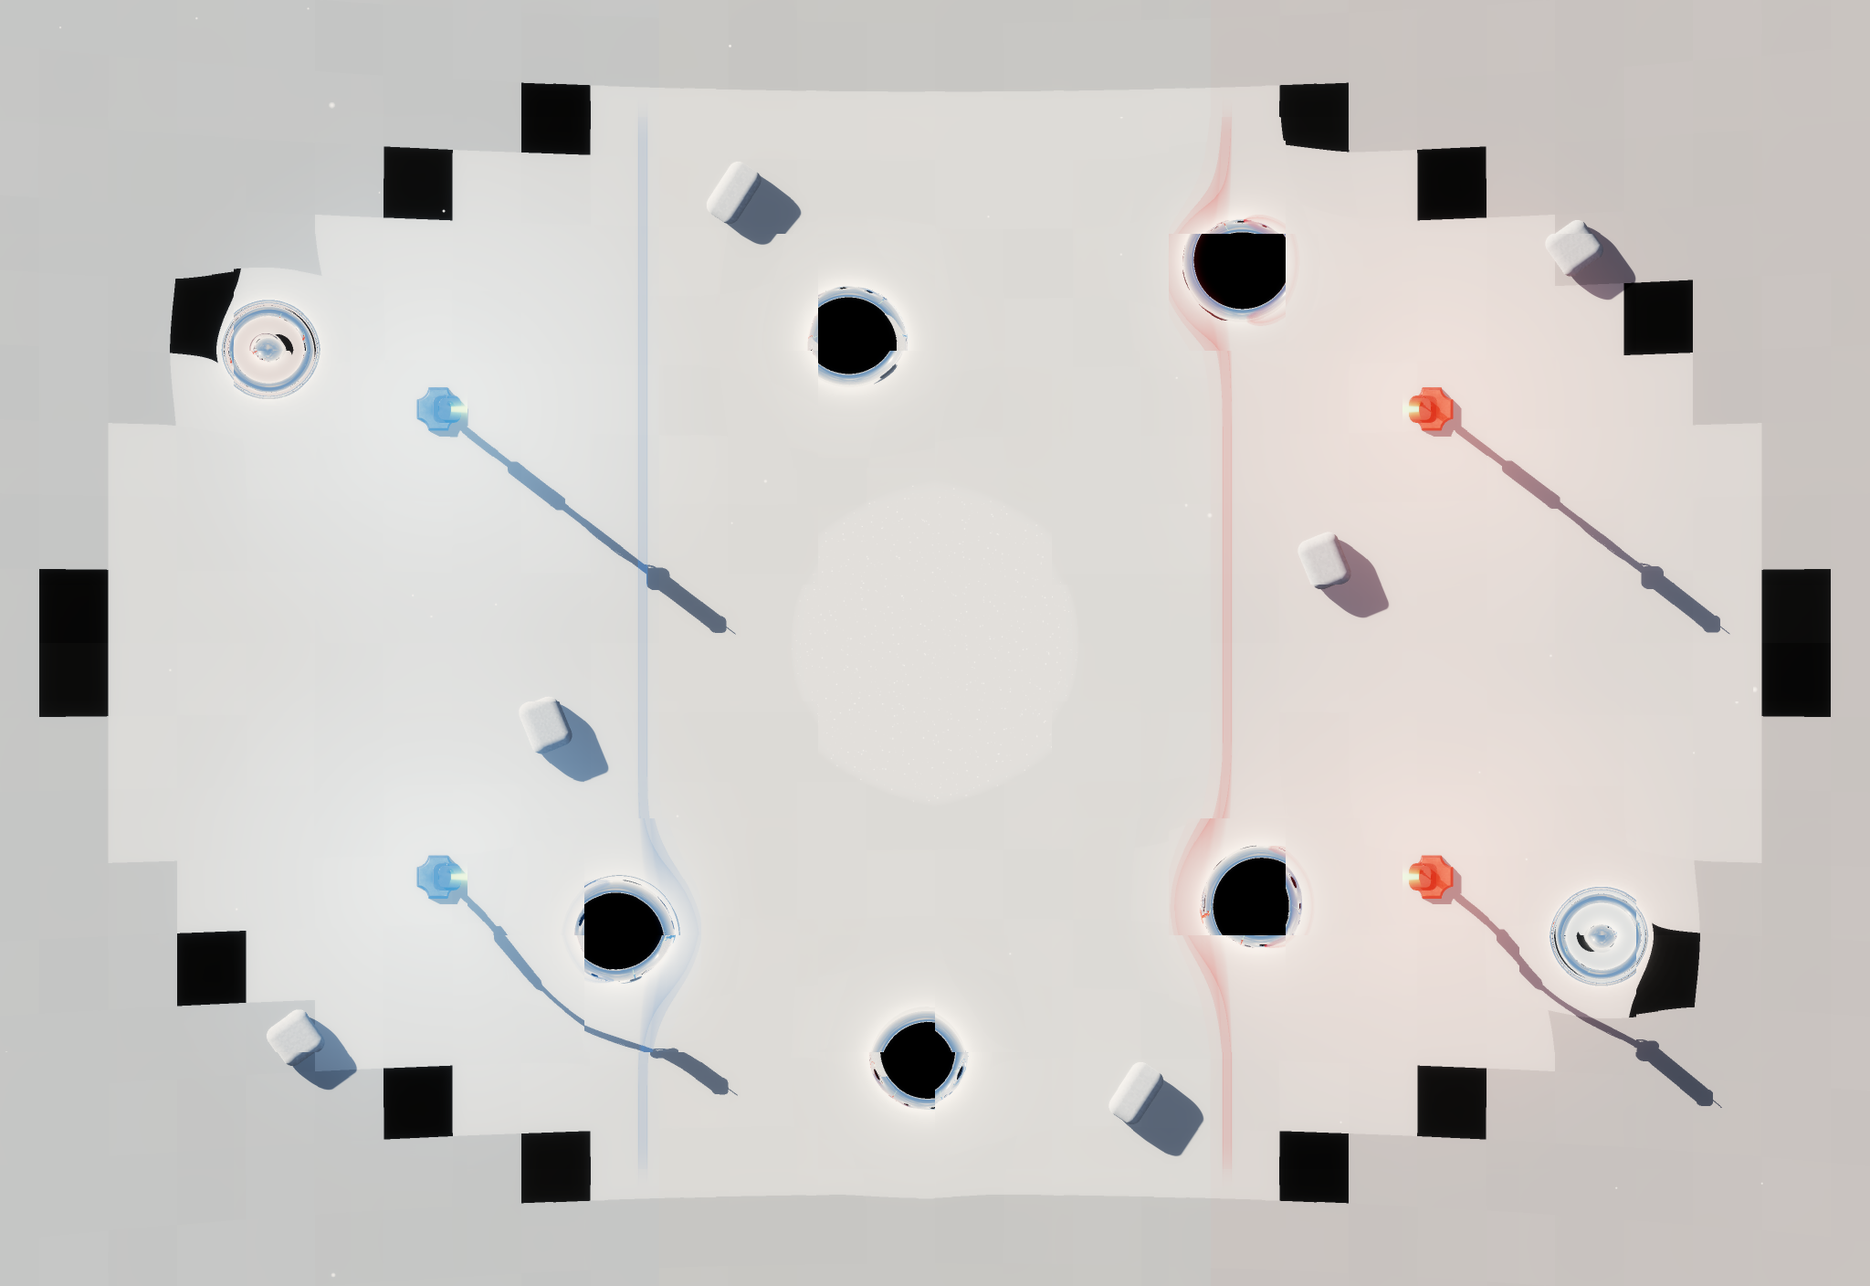
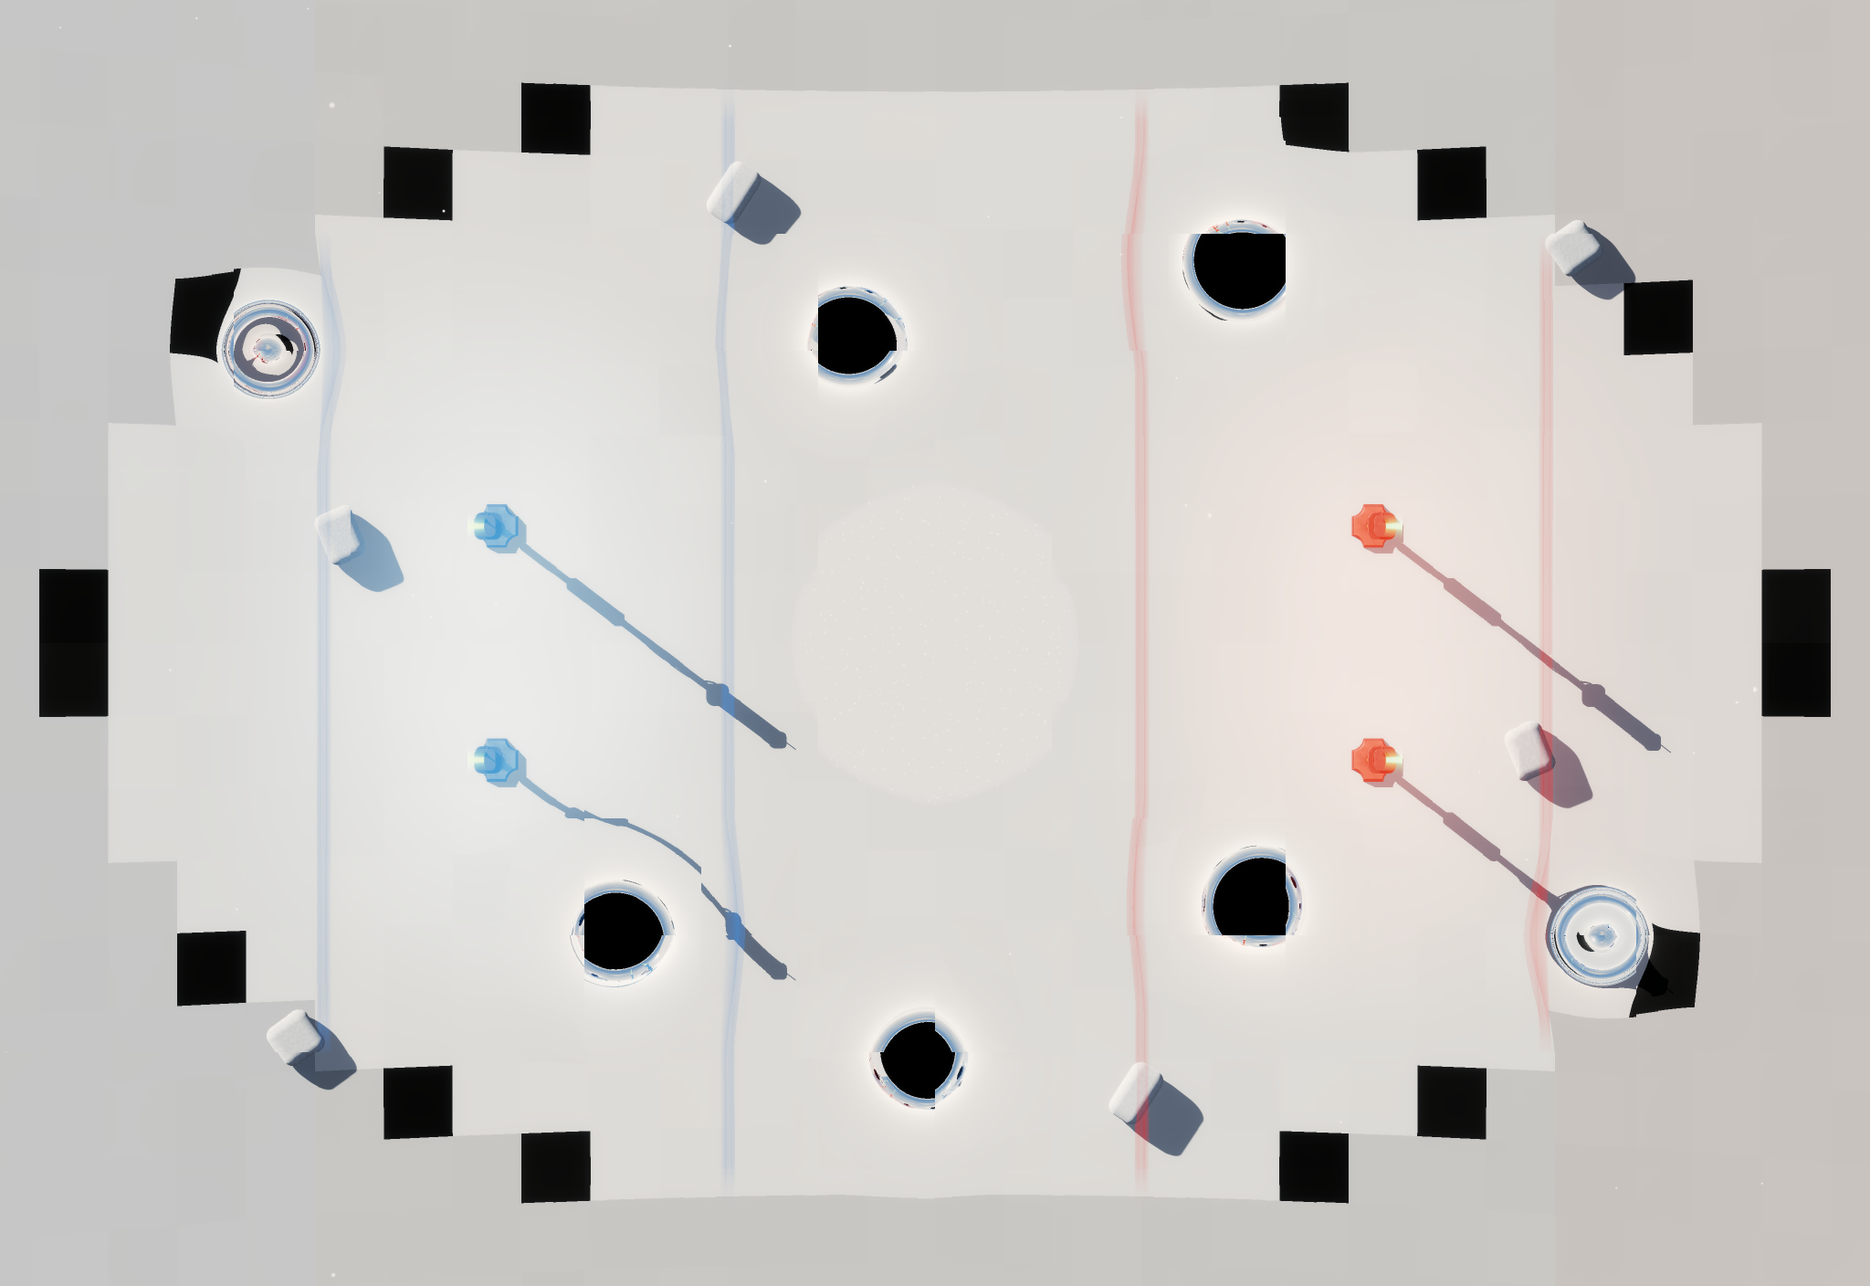
snow_planet_rust: paired-band layout for the looping world (layer 1, L1)
Spawns at a quarter of the 112 m loop (u = -28/28 m), pylons beside
them at (-30/30, +-8) m, zones in paired bands, the spawn-side mound
moved behind the spawn; the seeded scatter measures distances around
the torus and draws the same black holes. The level still ends at its
edge. DECISIONS S11 (the plan) and S13.

diff --git a/demos/snow_planet_rust/tools/make_map.py b/demos/snow_planet_rust/tools/make_map.py
@@ -60,7 +60,7 @@ FOG_M: float = 75.0
 # The only cover, few because the warps and blizzards shape play: blue's rounded snow mounds (u, v, half sizes,
 # yaw); red's are the same turned half a turn.
 BLUE_MOUNDS: list[tuple] = [
-    (-26.0, 7.0, [1.8, 0.9, 1.4], 0.3),
+    (-40.0, -6.0, [1.8, 0.9, 1.4], 0.3),
     (-12.0, -31.0, [2.0, 1.0, 1.2], -0.5),
     (-42.0, 27.0, [1.6, 0.8, 1.6], 0.9),
 ]
@@ -97,7 +97,15 @@ MIN_HOLE_TO_MOUTH_M: float = 20.0
 MIN_HOLE_TO_CENTRE_M: float = 21.0
 BOUNDARY_U_M: float = 60.0
 BOUNDARY_V_M: float = 40.0
-PYLON_SPOTS: list[tuple[float, float]] = [(-34.0, 16.0), (-34.0, -16.0), (34.0, 16.0), (34.0, -16.0)]
+# Paired bands on the torus (DESIGN.md, DECISIONS S11, L1): each spawn sits at a quarter of the u period, so both
+# ways around to the other team are SPAWN_U_M * 2 long; each team's zone is ZONE_HALF_M either side of its spawn, and
+# the two middle bands (around u = 0 and around the u seam) are the two routes. The pylons flank the spawn.
+SPAWN_U_M: float = PERIOD_U_M / 4.0
+ZONE_HALF_M: float = 14.0
+PYLON_U_M: float = 30.0
+PYLON_V_M: float = 8.0
+PYLON_SPOTS: list[tuple[float, float]] = [(-PYLON_U_M, PYLON_V_M), (-PYLON_U_M, -PYLON_V_M),
+                                          (PYLON_U_M, PYLON_V_M), (PYLON_U_M, -PYLON_V_M)]
 # Mouth A stands by blue's south pylon, well inside the boundary ellipse (a mouth on its edge trapped walkers, W-126),
 # moved up to MOUTH_JITTER_M by MOUTH_SEED; mouth B is A turned half a turn about the middle.
 MOUTH_A_SPOT: tuple[float, float] = (-45.0, -21.0)
@@ -120,6 +128,19 @@ def scatter_mounds(rng: random.Random) -> list[tuple]:
             for u_m, v_m, half_m, yaw_rad in BLUE_MOUNDS]
 
 
+def get_torus_distance(a: tuple[float, float], b: tuple[float, float]) -> float:
+    """`get_torus_distance` gives the distance in meters between ground spots a and b (u, v) the shortest way around
+    the torus, whose axes loop every PERIOD_U_M and PERIOD_V_M.
+
+    Example:
+        >>> get_torus_distance((-50.0, 0.0), (50.0, 0.0))
+        12.0
+    """
+    du_m: float = (a[0] - b[0] + PERIOD_U_M / 2.0) % PERIOD_U_M - PERIOD_U_M / 2.0
+    dv_m: float = (a[1] - b[1] + PERIOD_V_M / 2.0) % PERIOD_V_M - PERIOD_V_M / 2.0
+    return math.hypot(du_m, dv_m)
+
+
 def scatter_mouths() -> list[tuple[float, float]]:
     """`scatter_mouths` gives mouth A's spot, MOUTH_A_SPOT moved up to MOUTH_JITTER_M by MOUTH_SEED, and mouth B's, A
     turned half a turn about the middle, each checked to stand well inside the boundary and clear of the pylons.
@@ -136,7 +157,7 @@ def scatter_mouths() -> list[tuple[float, float]]:
         boundary_frac: float = (u_m / BOUNDARY_U_M) ** 2 + (v_m / BOUNDARY_V_M) ** 2
         if boundary_frac > MAX_MOUTH_BOUNDARY_FRAC:
             raise ValueError(f"a mouth at ({u_m}, {v_m}) is {boundary_frac} of the way to the boundary")
-        if min(math.dist((u_m, v_m), pylon) for pylon in PYLON_SPOTS) < MIN_MOUTH_TO_PYLON_M:
+        if min(get_torus_distance((u_m, v_m), pylon) for pylon in PYLON_SPOTS) < MIN_MOUTH_TO_PYLON_M:
             raise ValueError(f"a mouth at ({u_m}, {v_m}) is nearer than {MIN_MOUTH_TO_PYLON_M} m to a pylon")
     return spots
 
@@ -155,11 +176,11 @@ def scatter_black_holes(rng: random.Random, mound_spots: list[tuple[float, float
                                v_m + rng.uniform(-HOLE_JITTER_M, HOLE_JITTER_M)) for name, u_m, v_m in BLACK_HOLES]
         spots: list[tuple[float, float]] = [(u_m, v_m) for _, u_m, v_m in holes]
         is_clear: bool = all(
-            math.dist(a, b) >= MIN_HOLE_GAP_M for i, a in enumerate(spots) for b in spots[i + 1:]
+            get_torus_distance(a, b) >= MIN_HOLE_GAP_M for i, a in enumerate(spots) for b in spots[i + 1:]
         ) and all(
-            math.dist(a, b) >= MIN_HOLE_CLEARANCE_M for a in spots for b in PYLON_SPOTS + mound_spots
+            get_torus_distance(a, b) >= MIN_HOLE_CLEARANCE_M for a in spots for b in PYLON_SPOTS + mound_spots
         ) and all(
-            math.dist(a, b) >= MIN_HOLE_TO_MOUTH_M for a in spots for b in mouth_spots
+            get_torus_distance(a, b) >= MIN_HOLE_TO_MOUTH_M for a in spots for b in mouth_spots
         ) and all(math.hypot(*a) >= MIN_HOLE_TO_CENTRE_M for a in spots)
         if is_clear:
             return holes
@@ -180,7 +201,7 @@ def make_pylon(team: str, index: int, u_m: float, v_m: float) -> dict:
     """`make_pylon` gives a team's pylon `index` (its console's material) at (u, v): the beacon model on a cylinder.
 
     Example:
-        >>> make_pylon("blue", 0, -34.0, 16.0)["shapes"][0]["material"]
+        >>> make_pylon("blue", 0, -PYLON_U_M, PYLON_V_M)["shapes"][0]["material"]
         11
     """
     return {
@@ -211,8 +232,8 @@ def make_map() -> dict:
         structures.append(make_box("red snow mound", ru, rv, half_m, PACKED, ryaw, "box", MOUND_ROUND_M))
     lights: list[dict] = []
     for team, sign in (("blue", -1.0), ("red", 1.0)):
-        for index, v_m in enumerate((16.0, -16.0)):
-            u_m = sign * 34.0
+        for index, v_m in enumerate((PYLON_V_M, -PYLON_V_M)):
+            u_m = sign * PYLON_U_M
             structures.append(make_pylon(team, index, u_m, sign * v_m))
             lights.append({"position": [sign * v_m, 8.0, -u_m, 1.0], "color": TEAM_LIGHT[team], "radius_m": 8.0})
     warps: list[dict] = []
@@ -266,12 +287,14 @@ def make_map() -> dict:
         "sky": {"transport": "parallel", "sun": {"direction": [c / norm for c in sun], "color": [1.0, 0.95, 0.88]},
                 "stars": False, "clouds": True, "zenith_color": [0.42, 0.56, 0.74],
                 "horizon_color": [0.82, 0.87, 0.93], "fog_m": FOG_M, "snow_per_m3": SNOW_PER_M3},
-        "spawns": [{"team": "blue", "frame": make_frame(-48.0, 0.0)},
-                   {"team": "red", "frame": make_frame(48.0, 0.0, 0.0, math.pi)}],
+        "spawns": [{"team": "blue", "frame": make_frame(-SPAWN_U_M, 0.0)},
+                   {"team": "red", "frame": make_frame(SPAWN_U_M, 0.0, 0.0, math.pi)}],
         "regions": {
-            "zones": [{"team": "blue", "u_min_m": None, "u_max_m": -20.0},
-                      {"team": "middle", "u_min_m": -20.0, "u_max_m": 20.0},
-                      {"team": "red", "u_min_m": 20.0, "u_max_m": None}],
+            "zones": [{"team": "middle", "u_min_m": None, "u_max_m": -SPAWN_U_M - ZONE_HALF_M},
+                      {"team": "blue", "u_min_m": -SPAWN_U_M - ZONE_HALF_M, "u_max_m": -SPAWN_U_M + ZONE_HALF_M},
+                      {"team": "middle", "u_min_m": -SPAWN_U_M + ZONE_HALF_M, "u_max_m": SPAWN_U_M - ZONE_HALF_M},
+                      {"team": "red", "u_min_m": SPAWN_U_M - ZONE_HALF_M, "u_max_m": SPAWN_U_M + ZONE_HALF_M},
+                      {"team": "middle", "u_min_m": SPAWN_U_M + ZONE_HALF_M, "u_max_m": None}],
             "boundary": {"kind": "fermi_ellipse", "u_m": BOUNDARY_U_M, "v_m": BOUNDARY_V_M},
             "zone_walls": {"height_m": 6.0, "thickness_m": 0.6, "opacity_frac": 0.25},
             "blizzards": [{**blizzard, **BLIZZARD_NUMBERS} for blizzard in BLIZZARDS],

diff --git a/demos/snow_planet_rust/src/voxel_world.rs b/demos/snow_planet_rust/src/voxel_world.rs
@@ -3959,7 +3959,7 @@ mod play_tests {
 
     const STEP_S: f64 = 1.0 / 60.0;
     const SPAWN_PLAYER_COUNT: u32 = 8;
-    const CLEAR_AHEAD_M: f64 = 20.0;
+    const CLEAR_AHEAD_M: f64 = 8.0;
     const STAND_TOLERANCE_M: f64 = 0.05;
     const HEADING_COUNT: usize = 12;
     const WALK_STEP_COUNT: usize = 900;

diff --git a/demos/snow_planet_rust/DECISIONS.md b/demos/snow_planet_rust/DECISIONS.md
@@ -113,6 +113,104 @@ For a future agent:
   `devin/snow-planet-torus` (worktree `.devin/worktrees/snow-planet-torus`); the blizzard light bending is parked
   on `devin/snow-planet-swirl-parked`. Neither is in any PR.
 
+## S11. Plan: the looping world (User: options G, V, L)
+
+Status, 2026-11-08: the user said to build it "After parity", and the lead chose the recommended options for the
+user, who hasn't picked: G1, L1 and V1. They are built as stacked PRs from `claude/snow-planet-torus-layout` (layer
+1, L1), on top of W-126 (same play in every level), which moved the wormhole mouths (S12). The plan as written,
+with the mock-up, is on `claude/snow-planet-torus` (commit `902bd73`):
+
+A plan (2026-11-08, Claude Code, branch `claude/snow-planet-torus`). `DESIGN.md` makes both
+Snow Planet and Dark Forest T² × ℝ (the user called Dark Forest "the toroidal setup"); the user's W-120 (Snow Planet
+demo) words don't ask for it. Snow Planet's period is 112 m (u) × 72 m (v). The devin branch S10 names
+(`devin/snow-planet-torus`) was never pushed, so nothing of it is reused. Whatever is built here should serve Dark
+Forest too.
+
+**Geometry (option G):**
+- **G1, wrap in today's nearly flat H³ (recommended).** Keep the renderer, physics and lensing. Glue the cell's edges
+  in Fermi coordinates: crossing u = ±56 is a boost along u, an exact isometry; crossing v = ±36 keeps (u, h) and the
+  direction's parts along the Fermi axes. Measured on the ground plane (`fermi_glue_lens.py`, scratch): copies seen
+  across v look 1.7% bigger than on a flat torus, at every distance; copies along u shrink as in H³ today (8% at
+  112 m, 26% at 224 m); a laser 1 m from the v seam drifts 0.44 m in 25 m, as one does anywhere today. About 6 PRs.
+- **G2, a Euclidean renderer, physics and laser.** Exact, but rewrites every Minkowski formula in
+  `render_voxel.metal`, `voxel_world.rs`, the minimap and the map page: 15 or more PRs.
+
+**How each thing wraps (G1):**
+- **Walking:** after each step, a body past a seam is moved by the glue (one function, `wrap_frame`). The ellipse
+  boundary goes: the torus has no edge. Remote players aren't interpolated, so they jump across with no streak.
+- **Lasers:** a shot's path is cut where it crosses a seam and goes on from the other side, like a throat (a new
+  piece). A 480 m shot goes around 4 to 6 times, so the shooter's own copy must not be hit.
+- **Light rays (shader):** the camera is wrapped into the cell; each straight chord also stops at the nearest seam
+  and goes on from the other side. Inside a warp's reach the ray isn't wrapped; it is wrapped when it leaves.
+  Shadow rays (80 m) wrap the same way.
+- **Ghosts:** everything within a margin of a seam (structures, avatars, warps, thrown mouths, dust puffs, beam
+  pieces) gets a copy past the opposite seam, so a chord near the seam sees it and lenses that straddle a seam work
+  (the north black hole's 11 m reach crosses the v seam). Static ghosts are made once, moving ones each frame. A hit
+  on a ghost counts as a hit on its original.
+- **Blizzard:** fog and flakes for each copy the first ray piece passes; the fog's length becomes the ray's travelled
+  distance, not the straight Fermi distance.
+- **Black holes and wormholes:** as today, per copy; a mouth's exit is its partner's own place.
+
+**What players see (option V):** the level repeats every 112 m along the teams' axis and every 72 m across. The snow
+fog never passes 82% (`SNOW_FOG_MAX_FRAC`), so copies never fade out: without a limit, the horizon fills with black
+holes, pylons and green beacon beams, 400 m high and at least a pixel wide.
+- **V1, copies out to 224 m, then today's empty snowfield (recommended).**
+- **V2, copies to the horizon:** the costliest, and the busiest.
+- **V3, V1 with the fog reaching 100% at the limit:** hides where copies end, but whitens the far ground a little
+  (visuals are frozen).
+
+**Layout (option L):** as it stands, the torus breaks the level: blue's spawn (u = −48) is 16 m from red's (u = 48)
+across the u seam, red's pylons stand 30 m behind blue's spawn, and the wormhole's mouths are 28 m apart through the
+corner, nearer than through the throat is worth. `DESIGN.md`'s "paired bands" puts each spawn half a period from
+the other.
+- **L1, spawns, pylons and zones at the quarter points (u = ±28), period kept (recommended):** both routes 56 m.
+- **L2, a 192 m period, layout kept:** both routes 96 m; the half beyond the seam needs new content.
+- **L3, a ridge at the u seam:** the world loops only across v.
+- Any of them: the mouths move so walking between them is long (at most 67 m on this torus), the black holes'
+  seeded scatter uses wrapped distances (the north hole is 23.1 m from the south-west one across the seam, 1.1 m
+  clear), placements stay slightly random, seeded and mirrored per team, and zones wrap.
+
+**Cost in frame time:** counted per pixel (`ray_stats.py`, scratch; straight rays): today a pixel enters 0 to 0.33
+reaches; with V1, it crosses 0.4 to 1.0 seams and enters 0.35 to 0.6 reaches, about 1.3 to 1.7 times today's work
+(the spawn view 1.3×, the view back across the seam 1.7×); to the horizon (V2), 1.5 to 2.1×. Today's 7 to 16 ms GPU
+views (Apple VM) would become about 10 to 25 ms, so views across a seam pass 16.7 ms unless far copies skip the lens
+(only their black disk past about 120 m). The mock-up, which draws 25 copies by brute force (175 warps and 250
+structures, each ray testing all), took 82 to 178 ms GPU against 14 to 27 ms without copies, on this Mac at load 40
+to 60: an upper bound only. The first renderer layer measures it for real.
+
+**Edge cases:**
+- Seams: the snow's grain noise and the flake hashes aren't periodic, so a straight line shows in the snow at each
+  seam unless the noise's lattice fits the periods (a tiny visible change everywhere).
+- Fog: the far ground and the copies' fog must match, or a band shows where copies end (V1).
+- Shooting: your own back (a shot along v at eye height comes back after 72 m); console reach, shot noise and the
+  bot's aim use the nearest copy of each player.
+- Players: the respawn ring's "never on top of another player", freezing in the blizzard, and the robot's walking
+  speed (`avatar_animation.rs` takes the distance between two places, so a seam crossing reads as 100 m in one frame
+  and the robot runs) all need the nearest-copy distance.
+- Placing: thrown mouths near a seam, and their clearance from other warps, by wrapped distance.
+- Views: the third-person camera across a seam; the minimap and map page (marks wrapped, the picture tiled); zone
+  walls where zones wrap; a dust puff or beam cut at a seam without its ghost.
+- Precision: wrapping keeps every position within 66 m of the middle, better than today.
+- Compatibility (`compatible-changes`): the map changes (layout, no boundary, wrapping zones); `torus_periods_m` is in
+  the schema but not yet in `common/maps/README.md`. The match runs Snow Planet as its own program, so only its map
+  picture changes.
+- Bench views: every view at a seam changes; new views look along each axis.
+
+**Stacked PRs (G1, V1, L1), each under 200 lines:**
+1. Layout L1: `tools/make_map.py`, the generated map, its picture, `common/maps/README.md` on torus periods. Still
+   bounded, so it plays on its own.
+2. Torus maths: `wrap_frame`, the nearest-copy offset and distance, with unit tests; nothing changes in play.
+3. Ghosts: static and per-frame copies near the seams; a ghost's hits count for its original.
+4. Rays wrap in the shader: camera, chords, shadows, blizzard copies, copy distance V1, no lens for far copies.
+5. Walking and shooting wrap: steps, laser pieces, nearest-copy distances (respawn, bot, robot, consoles, freezing),
+   no boundary on the torus.
+6. Views: minimap, map page, third-person camera, seam-periodic snow noise.
+
+**Mock-up:** WIP on `claude/snow-planet-torus`, never to merge: `TEMP_TORUS_MOCKUP_COPIES=<n>` (`map.rs`) copies the
+level n periods each way, without wrapping, and `--bench-views` then renders seven views along the axes. Copies
+along v are a little stretched (H³ placement); copies along u are what G1 would show. Pictures:
+`.artifacts/bench_views/20261108-154239-torus-copies2/torus_mockup_{1,2}_of_2.png`.
+
 ## S12. Same play as Lunar Surface, W-126 (same play in every level) (User: the mouths' move, the blizzard's look)
 
 Checked against Lunar Surface (`../hyperbolic_wormholes_rust/`), the reference, on 2026-11-08 (Claude Code, branch
@@ -143,7 +241,25 @@ Checked against Lunar Surface (`../hyperbolic_wormholes_rust/`), the reference, 
   **User:** keep that, or make freezing pulse once per hit's worth of health, or keep the blizzard at half speed.
 - **One blizzard.** The map has exactly one, the white-out (`points_find_their_blizzard`); the README and the map's
   description said three.
-- **Scripted play** (`play_tests` in `src/voxel_world.rs`): eight players a team spawn on open snow facing 20 m of
+- **Scripted play** (`play_tests` in `src/voxel_world.rs`): eight players a team spawn on open snow facing 8 m of
   clear view; walking, sprinting, jumping and crouching for 15 s in twelve directions from each spawn never sticks,
   sinks or leaves the level; both level mouths and a thrown pair carry walkers and lasers from twelve directions;
   every console is reachable on foot and `E` reaches it from eight sides (`every_console_can_be_turned_off_on_foot`).
+
+## S13. Paired-band layout, the looping world's layer 1 (User: the layout, chosen for you as L1)
+
+Built on `claude/snow-planet-torus-layout`, 2026-11-08 (Claude Code), the first layer of S11's stack. The level still
+ends at its edge; only the layout changes, so the looping world can join it later without the spawns meeting at the
+seam.
+
+- **Spawns** at a quarter of the u period, u = ∓28 m (were ∓48 m): both ways around to the other team will be 56 m.
+- **Pylons** at (∓30, ±8) m (were (∓34, ±16) m), beside their spawn, so a team defends both routes from one place.
+  They stand 2 m toward the seam band, so pylon to pylon is 52 m through the seam band and 60 m through the middle.
+- **Zones** in paired bands: blue from u = −42 to −14 m, red from 14 to 42 m, and the middle in two bands, around
+  u = 0 (the white-out and the black holes) and around the u seam (the wormhole and two mounds).
+- **Mounds:** the mound by blue's spawn (and red's, turned half a turn) moved behind it, to (∓40, ∓6) m before its
+  seeded scatter: in front of the new spawn it stood 4 m from a spawning player's face. The other mounds, the black
+  holes and the mouths stay where they were; the scatter now measures distances the shortest way around the torus
+  (`get_torus_distance`), and it still draws the same black holes.
+- **Not yet:** walking, seeing and shooting across the seams (S11's layers 2 to 6). The bench views keep their old
+  viewpoints, so `blue_spawn` and `red_spawn` no longer stand at the spawns.

diff --git a/demos/snow_planet_rust/README.md b/demos/snow_planet_rust/README.md
@@ -31,6 +31,9 @@ make join-game SERVER=127.0.0.1      # terminal 2: your window; press 1 (blue) o
   in the map's `regions.blizzards` with its numbers (DECISIONS S3).
 - Everything else plays as on Lunar Surface, W-126 (same play in every level): the same settings files, and a jump
   as high and as long (DECISIONS S12).
+- Layout, paired bands for the looping world to come (DECISIONS S11, S13): each spawn sits a quarter of the 112 m
+  loop from the middle (u = ∓28 m), with its two pylons 8 m to either side, so once the level loops both ways
+  around to the other team are 56 m long. Until then the level still ends at its edge.
 
 ## Match interface
 
